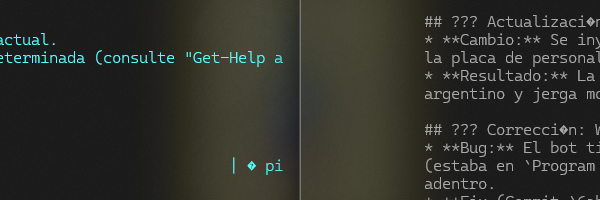
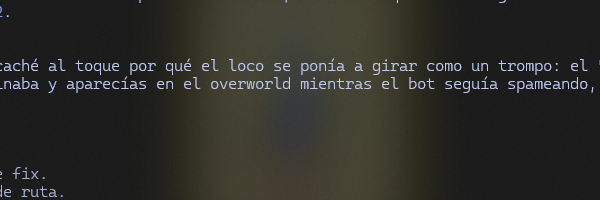
fix(leppa): increase ui render delays and bump version to v7.0

diff --git a/src/controller.py b/src/controller.py
@@ -178,11 +178,11 @@ class PokéController:
         pydirectinput.keyDown(key)
         time.sleep(random.uniform(0.1, 0.3))
         pydirectinput.keyUp(key)
-        time.sleep(random.uniform(0.3, 0.8))
+        time.sleep(random.uniform(0.6, 0.9))
         
         # 2. Select first Pokemon (Z)
         self._press('z')
-        time.sleep(random.uniform(0.3, 0.8))
+        time.sleep(random.uniform(0.6, 1.0))
         
         # 3. Navigate to Move Slot (1-4)
         # Reset cursor to top-left of the move list
@@ -200,7 +200,7 @@ class PokéController:
         
         # 4. Confirm Move Selection
         self._press('z')
-        time.sleep(random.uniform(0.2, 0.6))
+        time.sleep(random.uniform(0.5, 0.8))
 
         # 5. Handle Quantity Submenu
         if full_restore:

diff --git a/src/bot_main.py b/src/bot_main.py
@@ -51,7 +51,7 @@ class ShinyBot:
             self.mode_instance = self._initialize_mode()
             
             self.logger.log("---------------------------------------")
-            self.logger.log("  THE HUMANOID HUNTER v6.9 - SENTINEL ", "SUCCESS")
+            self.logger.log("  THE HUMANOID HUNTER v7.0 - SENTINEL ", "SUCCESS")
             self.logger.log("---------------------------------------")
         except Exception as e: 
             self.logger.log(f"Bot initialization failed: {e}", "FATAL")
